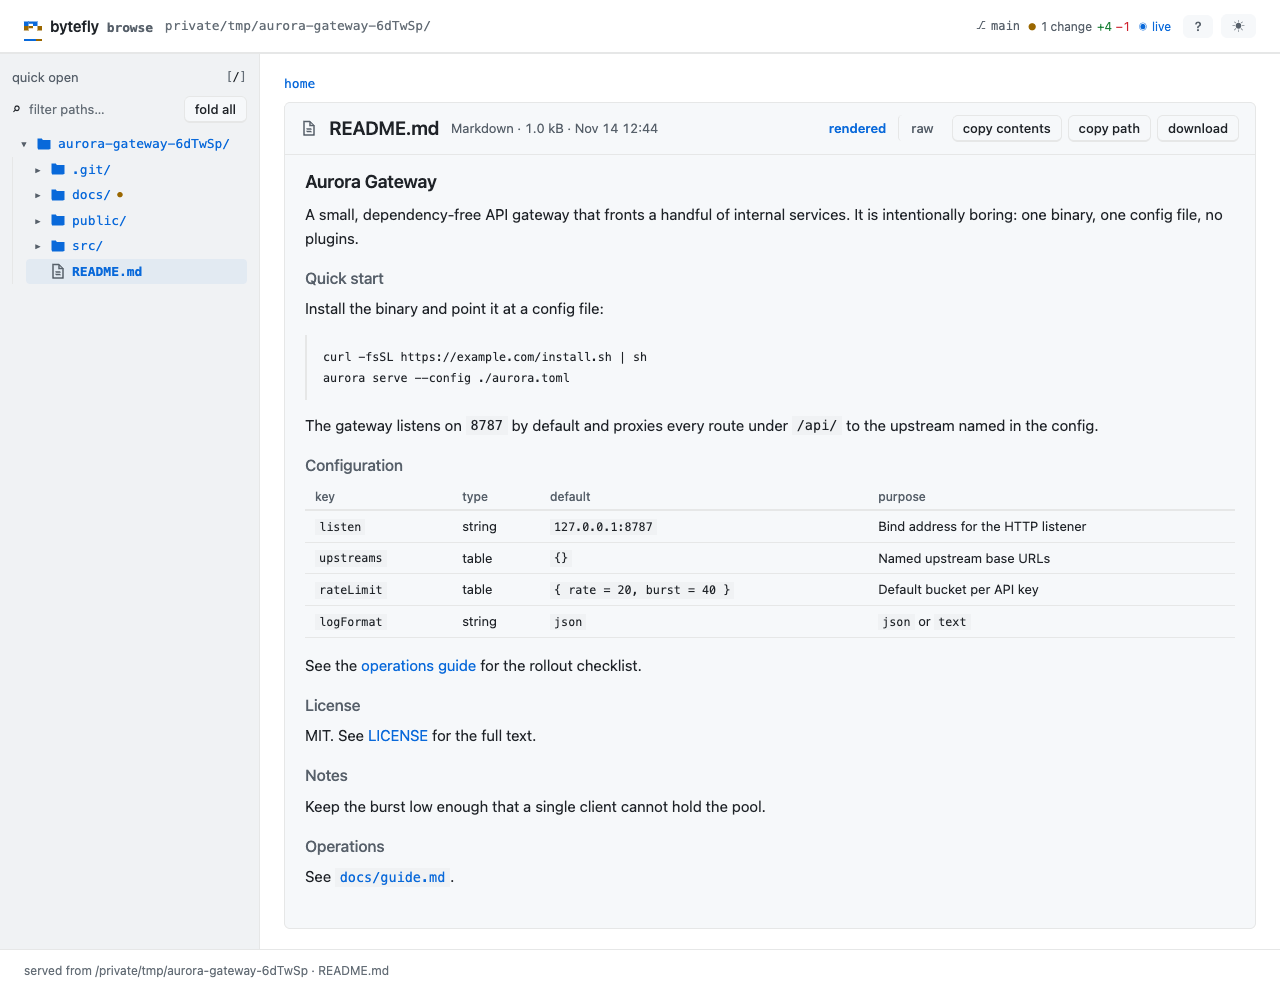
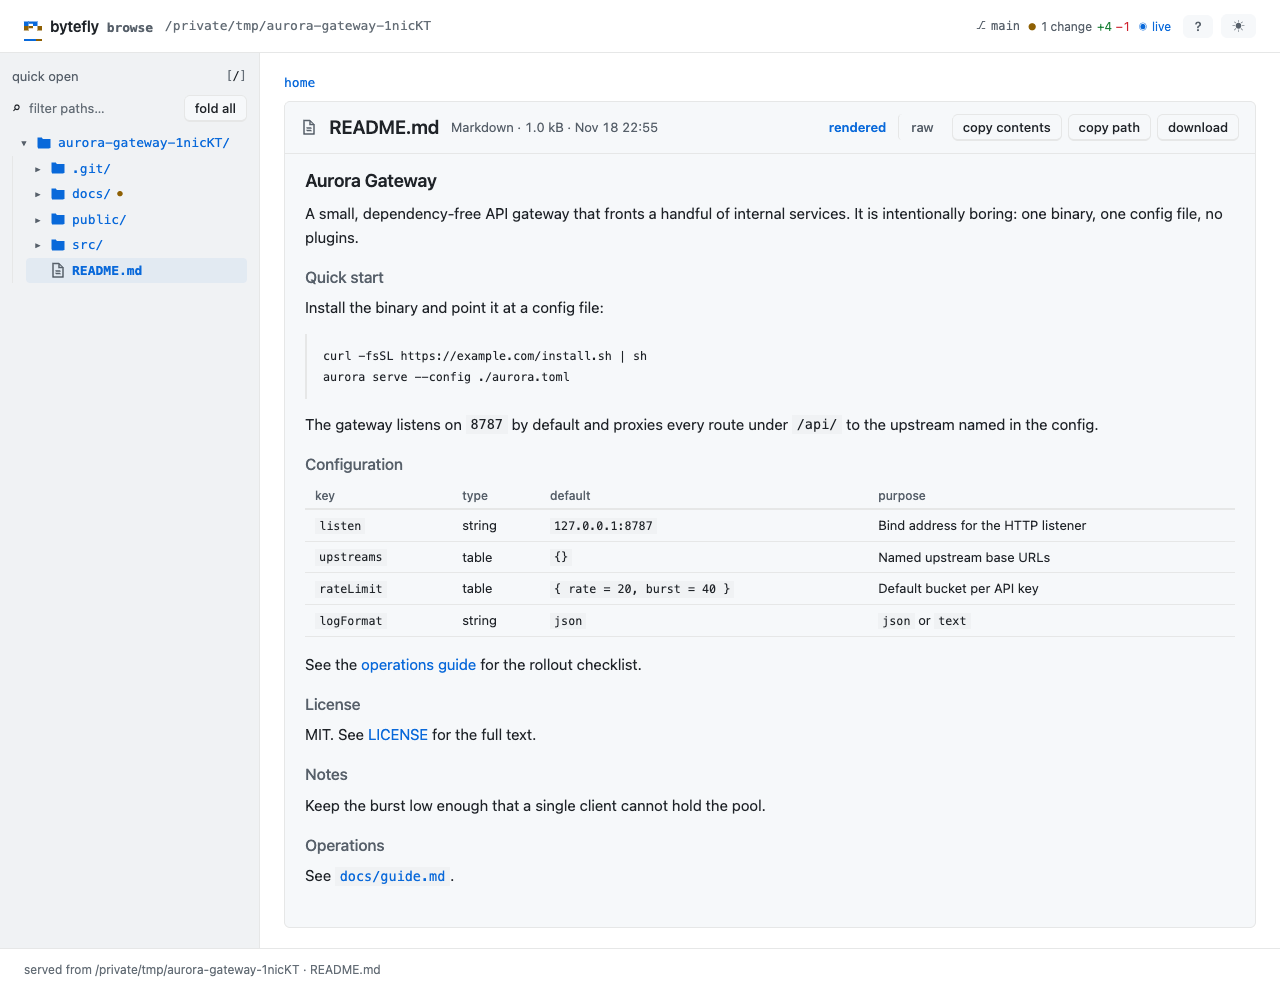
fix(web): keep a served path's leading slash at the head of the row
The identity row's subject is rtl so a long path keeps the folder it
names and loses the machine, and an rtl paragraph puts a leading neutral
character at the visual end: a served root painted as
"Users/…/my-pi-agent/" while the footer under it printed the same path
correctly. Measured on the browse page at 1280px, the "/" glyph sat at
x=572, after the final "t" at x=564.

Isolate the label in a bdi — dir=auto, so a title that reads right to
left still does — and have the board write into that isolate rather than
over it, because its frame is the one writer that replaces the subject's
text. The truncation the rtl is for is unchanged: at 420px the same
label still clips at its head, at left -19 in both builds.

The new suite reads a box position, because every string assertion is
green on the defect clear: it fails on the pre-fix tree (first glyph
1001.8 against the run's left edge, and 388 inside a 24px box) and
passes after. The doc capture is recaptured and its site copy synced;
the alt now says 991, which is what this build rendered before the fix
as well.

diff --git a/extensions/file-browse/view/subject-behaviour.test.ts b/extensions/file-browse/view/subject-behaviour.test.ts
@@ -1,0 +1,170 @@
+/**
+ * The identity row's subject, measured: where a reader sees the path's first character.
+ *
+ * The row is `direction: rtl` so a long path keeps the folder it names and loses the machine
+ * (`lib/web/components.ts`), and an rtl paragraph moves a leading neutral character — the `/`
+ * an absolute path opens with — to the visual end unless the label is isolated. Every string
+ * assertion is green on that defect, because the page carried `/Users/…` in the DOM all along:
+ * only a rendered box position can fail, so this suite reads one. The second case holds the
+ * truncation the rtl is for, so a fix cannot buy the slash by giving that up.
+ *
+ * It needs a browser; where the machine has none it skips, naming `PI_CHROME`.
+ */
+
+import { afterAll, beforeAll, describe, expect, test } from "bun:test";
+import { mkdirSync, mkdtempSync, rmSync, writeFileSync } from "node:fs";
+import { tmpdir } from "node:os";
+import { join } from "node:path";
+import type { Page } from "playwright-core";
+import { findChrome } from "../../../scripts/capture/chrome.ts";
+import { launchBrowser, type TestBrowser } from "../../../test/helpers/browser.ts";
+import { testMountSource } from "../../../test/helpers/serve.ts";
+import { DEFAULT_CONFIG } from "../config/config.ts";
+import { createFileServer, type FileServer } from "../transport/server.ts";
+
+/** The browser this machine has; absent means the suite is skipped, naming `PI_CHROME`. */
+const CHROME = findChrome();
+
+/** How long one case may take: a boot, two loads, and a read of one row. */
+const CASE_MS = 30_000;
+
+/** The wide row the toolbar draws, and the narrow one that puts the subject on its own line. */
+const WIDE = 1280;
+const NARROW = 420;
+
+/**
+ * The sliver of the DOM a measurement reads, reached by name inside the page.
+ *
+ * This project's TypeScript has no DOM lib — the client is a string — so a suite that reads a
+ * box declares the few members it touches rather than compiling against a whole one.
+ */
+interface Box {
+	left: number;
+	right: number;
+	width: number;
+}
+
+interface Range {
+	setStart(node: unknown, at: number): void;
+	setEnd(node: unknown, at: number): void;
+	selectNodeContents(node: unknown): void;
+	getBoundingClientRect(): Box;
+}
+
+interface SubjectSpan {
+	textContent: string | null;
+	scrollWidth: number;
+	clientWidth: number;
+	title: string;
+	firstChild: { textContent: string } | null;
+	ownerDocument: { createRange(): Range };
+	querySelector(selector: string): SubjectSpan | null;
+	getBoundingClientRect(): Box;
+	getAttribute(name: string): string | null;
+}
+
+/** What one width paints: the label, its first and last glyph, and the run they sit in. */
+interface Subject {
+	text: string;
+	title: string;
+	first: number;
+	last: number;
+	run: number;
+	box: Box;
+	clipped: number;
+}
+
+let browser: TestBrowser | undefined;
+let server: FileServer | undefined;
+let base = "";
+let root = "";
+
+/** The row at one width, measured from a fresh load. */
+async function subjectAt(width: number): Promise<Subject> {
+	if (server === undefined || browser === undefined) throw new Error("the suite's page was not served");
+	const page: Page = await browser.newPage({ viewport: { width, height: 800 }, deviceScaleFactor: 1 });
+	try {
+		await page.goto(server.url, { waitUntil: "load" });
+		// Visible is the check a box needs: Playwright's own predicate is a non-empty rect, and
+		// the page ships no webfont, so there is no later swap to wait for.
+		await page.waitForSelector(".bf-context--subject", { state: "visible" });
+		return await page.$eval(".bf-context--subject", (node) => {
+			const span = node as unknown as SubjectSpan;
+			// The isolate is the fix's own element; a span without one still measures, so the
+			// case fails on the position rather than on a missing element.
+			const label = span.querySelector("bdi") ?? span;
+			const text = label.firstChild === null ? "" : label.firstChild.textContent;
+			const draft = span.ownerDocument.createRange();
+			const glyph = (at: number): number => {
+				draft.setStart(label.firstChild, at);
+				draft.setEnd(label.firstChild, at + 1);
+				return draft.getBoundingClientRect().left;
+			};
+			const run = span.ownerDocument.createRange();
+			run.selectNodeContents(span);
+			return {
+				text,
+				title: span.getAttribute("title") ?? "",
+				first: glyph(0),
+				last: glyph(text.length - 1),
+				run: run.getBoundingClientRect().left,
+				box: span.getBoundingClientRect(),
+				clipped: span.scrollWidth - span.clientWidth,
+			};
+		});
+	} finally {
+		await page.close();
+	}
+}
+
+describe.skipIf(CHROME === undefined)("the identity row's subject", () => {
+	beforeAll(async () => {
+		// A root whose name is long enough to clip a narrow row and short enough to be whole in
+		// the wide one: both cases assert that shape, so a machine whose `tmpdir()` moves it
+		// fails here instead of proving nothing.
+		base = mkdtempSync(join(tmpdir(), "pi-browse-subject-"));
+		root = join(base, "a-served-folder-name-long-enough-to-clip", "second");
+		mkdirSync(root, { recursive: true });
+		writeFileSync(join(root, "README.md"), "# Subject\n");
+		const outcome = await createFileServer({
+			root,
+			config: { ...DEFAULT_CONFIG, autoOpen: false, live: false },
+			mount: testMountSource(),
+			session: "subject-behaviour",
+		});
+		if (outcome.kind !== "served") throw new Error(outcome.reason);
+		server = outcome.server;
+		browser = await launchBrowser(CHROME);
+	}, CASE_MS);
+
+	afterAll(async () => {
+		await browser?.close();
+		await server?.close();
+		if (base !== "") rmSync(base, { recursive: true, force: true });
+	}, CASE_MS);
+
+	test("paints the path's slash at the head of the row, where the reader put it", async () => {
+		const wide = await subjectAt(WIDE);
+		// The label is still the whole served root, slash and all, and the hover still carries it.
+		expect(wide.text).toBe(wide.title);
+		expect(wide.text.startsWith("/")).toBe(true);
+		// A clipped run starts off-screen, which would put both boxes outside together and make
+		// the comparison below true by accident: the wide row says nothing is clipped first.
+		expect(wide.clipped).toBe(0);
+		// The defect: an rtl paragraph moves that neutral "/" behind the last letter, which the
+		// shipped page measured at x=572 against a label starting at 165.
+		expect(Math.abs(wide.first - wide.run)).toBeLessThanOrEqual(1);
+	});
+
+	test("keeps the head truncation the row exists for when the row is narrow", async () => {
+		const wide = await subjectAt(WIDE);
+		const narrow = await subjectAt(NARROW);
+		// The fixture is the shape this case reads: whole in one row, clipped in the other.
+		expect(wide.clipped).toBe(0);
+		expect(narrow.clipped).toBeGreaterThan(0);
+		// The machine name is what goes: the first glyph sits outside the row, and the folder a
+		// reader is in keeps its last letter inside it.
+		expect(narrow.first).toBeLessThan(narrow.box.left);
+		expect(narrow.last).toBeLessThanOrEqual(narrow.box.right);
+	});
+});

diff --git a/extensions/board/view/repaint.test.ts b/extensions/board/view/repaint.test.ts
@@ -35,6 +35,21 @@ const CORE: Actor = { id: "s-core", label: "billing-core" };
 /** The note the waiting card carries, which its reason line falls back to. */
 const NOTE = "from the support thread";
 
+/**
+ * Whether the toolbar's subject still carries the label's isolate.
+ *
+ * The row is `direction: rtl` so a long path keeps the folder it names, and the isolate is what
+ * keeps a label opening with a neutral character — `.` of a repository under `.config/` — where
+ * the reader put it. A frame rewrites the name, so a write over the span rather than into it
+ * would drop that element on the first frame.
+ */
+async function isolated(page: Page): Promise<boolean> {
+	return page.$eval("#board-repo", (node) => {
+		const repo = node as unknown as { querySelector(selector: string): unknown };
+		return repo.querySelector("bdi") !== null;
+	});
+}
+
 let board: BoardBrowser;
 
 /**
@@ -355,5 +370,30 @@ describe.skipIf(CHROME === undefined)("a frame", () => {
 			Array.from(nodes as ArrayLike<ElementLike>, (node) => (node.textContent ?? "").trim()),
 		);
 		expect(drawn.some((text) => text.includes("Export orders as CSV"))).toBe(true);
+	});
+
+	test("writes the repository into the label's isolate, never over it", async () => {
+		const page = await board.reuse();
+		// The header is the server's, so the isolate is in the document before any frame paints.
+		expect(await isolated(page)).toBe(true);
+		const printed = await page.textContent("#board-repo");
+		// A card arrives, which is a frame, and the frame rewrites the subject's name.
+		const added = await board.store.create(
+			{ title: "A card the frame carries", paths: [] },
+			LEAD,
+			clock.now() + 30_000,
+		);
+		await page.waitForFunction(
+			(id) => {
+				const doc = (globalThis as unknown as { document: Doc }).document;
+				return doc.querySelector(`[data-card="${id}"]`) !== null;
+			},
+			added.id,
+			{ timeout: PAINT_MS },
+		);
+		// The same name in the same isolate: a write over the span would leave the text and drop
+		// the element, and a name opening with a dot would then be reordered by the row's rtl.
+		expect(await page.textContent("#board-repo")).toBe(printed);
+		expect(await isolated(page)).toBe(true);
 	});
 });

diff --git a/lib/web/markup.ts b/lib/web/markup.ts
@@ -159,6 +159,11 @@ export function themeToggle(): string {
  * It is the toolbar's splitter as well as its label, so the only thing after it is the page's
  * own facts and the app's chrome. The whole value is on the hover, because the line truncates
  * its head: two clones of one repository, or two served folders, are told apart by the path.
+ *
+ * That truncation is the span's `direction: rtl`, and an rtl paragraph moves a leading neutral
+ * character — the `/` an absolute path opens with — to the visual end. The isolate is the
+ * label's: it keeps the slash where a reader put it, and it is a `bdi` rather than a `dir` so a
+ * name that reads right to left still does.
  */
 /** What the identity row's subject says: the label, and the whole value it stands for. */
 export interface PageSubjectOptions {
@@ -172,7 +177,7 @@ export interface PageSubjectOptions {
 
 function pageSubject(options: PageSubjectOptions): string {
 	const id = options.id === undefined ? "" : ` id="${escapeHtml(options.id)}"`;
-	return `<span class="bf-context bf-context--subject"${id} title="${escapeHtml(options.title)}">${escapeHtml(options.label)}</span>`;
+	return `<span class="bf-context bf-context--subject"${id} title="${escapeHtml(options.title)}"><bdi>${escapeHtml(options.label)}</bdi></span>`;
 }
 
 /**

diff --git a/extensions/board/view/chrome.test.ts b/extensions/board/view/chrome.test.ts
@@ -73,13 +73,16 @@ describe("the toolbar", () => {
 	test("names the repository in the toolbar, and the root on its hover", () => {
 		const page = pageOf("board");
 		expect(page).toContain(
-			`<span class="bf-context bf-context--subject" id="board-repo" title="${ROOT}">${REPO}</span>`,
+			`<span class="bf-context bf-context--subject" id="board-repo" title="${ROOT}"><bdi>${REPO}</bdi></span>`,
 		);
 		// Both are server data, and a repository path can hold a quote: it is escaped, because
 		// the root goes in an attribute.
 		const odd = renderBoardPage({ view: "board", base: "", repo: "a&b", root: '/tmp/"x"', where: WHERE });
 		expect(odd).toContain('title="/tmp/&quot;x&quot;"');
-		expect(odd).toContain(">a&amp;b<");
+		expect(odd).toContain("<bdi>a&amp;b</bdi>");
+		// The frame rewrites the name, so it writes into the label's isolate rather than over it:
+		// the row is rtl, and a name opening with a dot would otherwise move behind the name.
+		expect(BOARD_CLIENT_JS).toContain('(repo.querySelector("bdi") || repo).textContent = view.repo;');
 	});
 });
 

diff --git a/extensions/board/view/render.ts b/extensions/board/view/render.ts
@@ -286,11 +286,11 @@ __RUNTIME__
   function renderChrome(view) {
     // The board's subject, which the header carries: the repository's name, with the root's
     // whole path on the hover, because a name alone cannot tell two clones of one repository
-    // apart. It arrives in the document too, so the toolbar is complete before the first
-    // frame; this keeps it true if a frame ever names a different store.
+    // apart. It arrives in the document too, so this keeps it true if a frame ever names a
+    // different store; it writes into the kit's isolate, never over it, because the row is rtl.
     var repo = document.getElementById("board-repo");
     if (repo) {
-      repo.textContent = view.repo;
+      (repo.querySelector("bdi") || repo).textContent = view.repo;
       repo.title = view.root;
     }
     var progress = document.getElementById("board-progress");

diff --git a/lib/web/app-head.test.ts b/lib/web/app-head.test.ts
@@ -59,7 +59,9 @@ describe("the app head", () => {
 		expect(subject).toContain('id="board-repo"');
 		// The whole path is the hover: the line keeps the tail, and the head is where two clones of one repository differ.
 		expect(subject).toContain('title="/tmp/&quot;x&quot;"');
-		expect(appHead({ ...ROW, subject: { label: "a&b", title: "a&b" } })).toContain(">a&amp;b<");
+		// The label is isolated from the row's rtl, so the escape happens inside the isolate: a
+		// label of nothing but markup still paints as text.
+		expect(appHead({ ...ROW, subject: { label: "a&b", title: "a&b" } })).toContain("<bdi>a&amp;b</bdi>");
 		// A subject with nothing to name writes no id, rather than an empty one.
 		expect(appHead({ ...ROW, subject: { label: "a", title: "a" } })).not.toContain(' id="board-repo"');
 	});

diff --git a/extensions/plan/web-page.test.ts b/extensions/plan/web-page.test.ts
@@ -206,7 +206,7 @@ describe("the page's chrome", () => {
 		const html = reviewPage();
 		expect(html).toContain('<div class="bf-app__id review-bar">');
 		expect(html).toContain(
-			'<span class="bf-context bf-context--subject" id="plan-title" title="~/.pi/agent/plans/repo-key/add-rate-limiting.md">Add rate limiting</span>',
+			'<span class="bf-context bf-context--subject" id="plan-title" title="~/.pi/agent/plans/repo-key/add-rate-limiting.md"><bdi>Add rate limiting</bdi></span>',
 		);
 		expect(html).toContain('<div class="bf-app__facts">');
 		expect(html).toContain('<span class="bf-live bf-tone--accent" id="review-state"');

diff --git a/extensions/board/view/pages.test.ts b/extensions/board/view/pages.test.ts
@@ -241,7 +241,6 @@ describe("the client bundle", () => {
 		// The header carries the subject and the path that tells two clones apart; the foot the
 		// store, the counts, and the size. No surface paints the seat this page is served as.
 		expect(BOARD_CLIENT_JS).toContain('getElementById("board-repo")');
-		expect(BOARD_CLIENT_JS).toContain("repo.textContent = view.repo;");
 		expect(BOARD_CLIENT_JS).toContain("repo.title = view.root;");
 		expect(BOARD_CLIENT_JS).toContain('"store " + view.where');
 		expect(BOARD_CLIENT_JS).not.toContain('view.repo + " · store "');

diff --git a/test/suite-sizes.test.ts b/test/suite-sizes.test.ts
@@ -28,7 +28,7 @@ const LONG_SUITES: Record<string, number> = {
 	"extensions/board/page.test.ts": 521,
 	"extensions/board/tools.test.ts": 1237,
 	"extensions/board/view/behaviour.test.ts": 730,
-	"extensions/board/view/pages.test.ts": 618,
+	"extensions/board/view/pages.test.ts": 617,
 	"extensions/board/view/team.test.ts": 485,
 	"extensions/bytefly/block/block.test.ts": 561,
 	"extensions/bytefly/chrome.test.ts": 1185,

diff --git a/test/suite-manifest.ts b/test/suite-manifest.ts
@@ -112,6 +112,7 @@ export const EXTENSION_SUITES: Record<string, readonly string[]> = {
 		"view/pages",
 		"view/blocks",
 		"view/chrome",
+		"view/subject-behaviour",
 		"transport/router",
 		"transport/root-move",
 		"command",

diff --git a/CHANGELOG.md b/CHANGELOG.md
@@ -10,6 +10,12 @@ to [Semantic Versioning](https://semver.org/spec/v2.0.0.html).
   and every repaint. `Escape` closes the edit before the composer and the review, and Resolve,
   Edit, Delete and the view switch refuse while a draft is open instead of dropping its text; an
   edit updates the tab's draft as it is typed, and Cancel puts the note back.
+- `lib/web`: a page's subject keeps its leading `/`. The identity row's label sits in a
+  right-to-left span so a long path keeps the folder it names, and an rtl paragraph moves a
+  leading neutral character — the `/` an absolute path opens with — to the visual end, so a
+  served root painted as `Users/…/my-pi-agent/` while the footer under it printed the path
+  correctly. The label is isolated from the row's direction now, and a page that rewrites it
+  writes into that isolate rather than over it.
 
 ## [0.29.0] - 2026-11-18
 

diff --git a/docs/extensions/file-browse.md b/docs/extensions/file-browse.md
@@ -4,7 +4,7 @@
 tree, file previews, a fuzzy quick open, and a read-only git diff. Nothing on the
 page writes.
 
-<img src="../../assets/screens/file-browse.png" alt="The file browser: a path filter above a collapsible tree, and a rendered Markdown file in the right pane" width="1280" height="992">
+<img src="../../assets/screens/file-browse.png" alt="The file browser: a path filter above a collapsible tree, and a rendered Markdown file in the right pane" width="1280" height="991">
 
 - **Read-only.** The server answers `GET` and `HEAD`, binds `127.0.0.1`, and
   never edits a file.
